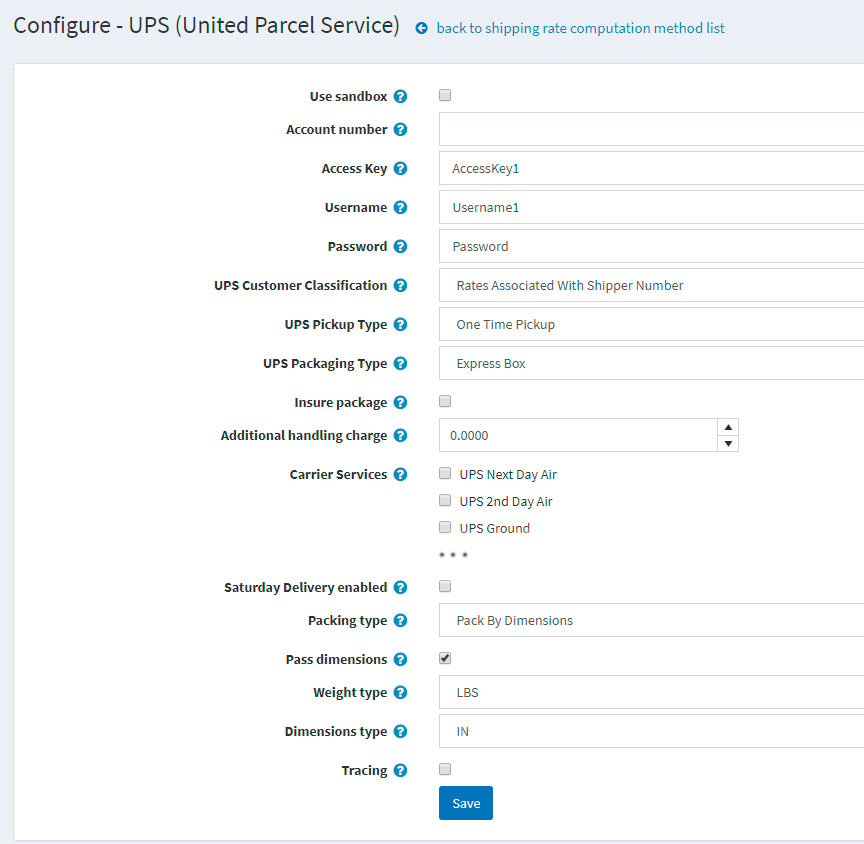
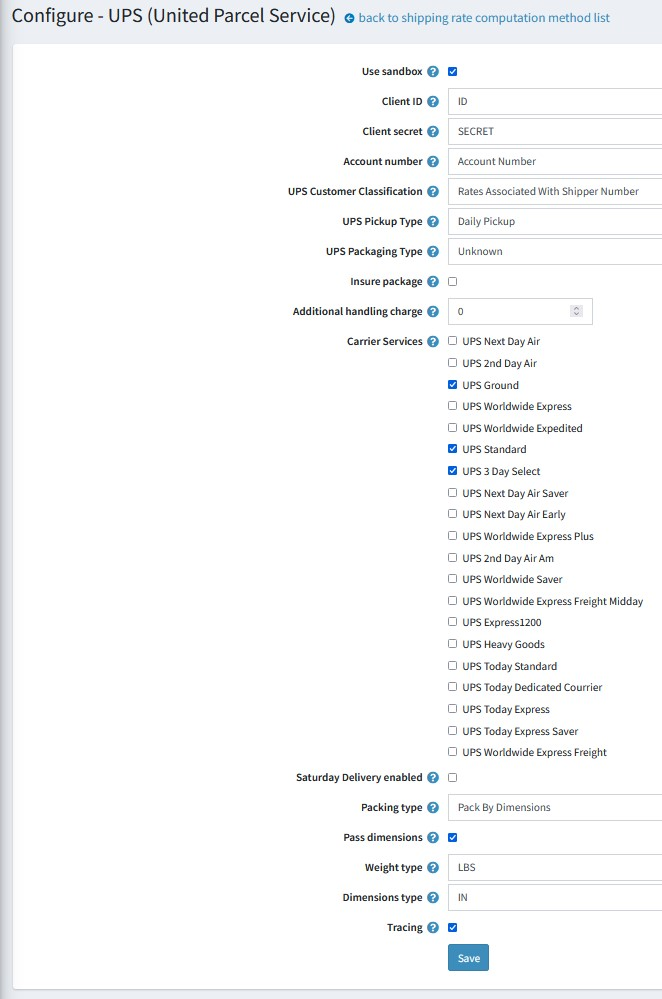
Updated docs for UPS OAuth

diff --git a/en/getting-started/configure-shipping/shipping-providers/ups.md b/en/getting-started/configure-shipping/shipping-providers/ups.md
@@ -2,74 +2,85 @@
 title: UPS
 uid: en/getting-started/configure-shipping/shipping-providers/ups
 author: git.AndreiMaz
-contributors: git.exileDev, git.DmitriyKulagin
+contributors: git.exileDev, git.DmitriyKulagin, git.DanWithArduino
 ---
-
 # UPS
 
 To access your account at UPS, use a username, a password, and an **XML license number**, which you will be provided with after the registration process.
 
 ## Define the UPS Real Time Shipping Calculations
 
-1. Create a UPS account by going to [https://www.ups.com/upsdeveloperkit?loc=en_US](https://www.ups.com/upsdeveloperkit?loc=en_US) to receive the following:
-    * Username ID
-    * Password
-    * XML access license number
+1. Create a UPS user account via [UPS.com](UPS.com "UPS.com"), then go to [developer.ups.com](developer.ups.com), and create an app to receive the following:
 
-1. In the nopCommerce admin area, go to **Configuration → Shipping → Shipping providers**.
- ![Shipping rate methods](_static/ups/shipping-rate-methods.jpg)
-1. Enable this method as follows:
-    * In the UPS (United Postal Service) row, click the **Edit** button.
-    * In the Is **active** column, select the check mark.
-    * Click **Update**. The *false* option will becomes *true*.
+   * Client ID
+   * Client Secret
+     *note, this is to use UPS OAuth, which is required for all new accounts after June 2023, and all accounts after June 2024*
 
-1. Click **Configure** beside the UPS (United Parcel Service) option in the list.
-    The *Configure – UPS (United Parcel Service)* window will be displayed as follows: ![Configure page](_static/ups/ups-configure.jpg)
+     ![Shipping rate methods](_static/ups/ups-apps-configuration.jpg)
+2. Add UPS Products to enable shipment tracking, rate calculations, etc. Recommended products are:
 
-1. Enter the following information obtained from the UPS provider:
-    * Select the **Use sandbox** checkbox to use the testing environment.
-    * Enter the **Account number** of the UPS provider.
-    * Enter the **Access Key** obtained from the provider.
-    * Enter your **Username** obtained from the provider.
-    * Enter the **Password** obtained from the provider
-    * Select your required **UPS Customer Classification** as follows:
-        * Rates Associated With Shipper Number
-        * Daily Rates
-        * Retail Rates
-        * Regional Rates
-        * General List Rates
-        * Standard List Rates
-    * Select the required **UPS Pickup Type** as follows:
-        * Daily Pickup
-        * Customer Counter
-        * One Time Pickup
-        * On Call Air
-        * Letter Center
-        * Air Service Center
-    * Select the required **UPS Packaging Type** as follows:
-        * Unknown
-        * Letter
-        * Customer Supplied Package
-        * Tube
-        * P A K
-        * Express Box
-        * 10 kg Box
-        * 25 kg Box
-        * Pallet
-        * Small Express Box
-        * Medium Express Box
-        * Large Express Box
-    * Select the **Insure package** checkbox, to indicate the package will be insured.
-    * Enter **Additional handling charge**. It is an additional fee to charge your customers.
-    * Select the **Carrier Services** you want to offer to your customers.
-    * Select to get rates for **Saturday Delivery enabled**.
-    * Select the **Packing type**, as follows:
-        * Pack by dimensions
-        * Pack by one item per package
-        * Pack by volume
-    * Tick the **Pass dimensions** checkbox to pass package dimensions when requesting for rates.
-    * Select the **Weight type** – pounds or kilograms.
-    * Select the **Dimensions type** – inches or centimeters.
-    * Tick the **Tracing** checkbox to record system tracing in the system log. The entire request and response XML will be logged (including AccessKey/Username, Password). Do not leave this enabled in a production environment.
+   * Rating
+   * Address Validation
+   * Landed Cost Quoting
+   * Tracking
+   * Shipping
+   * Time In Transit
+3. In the nopCommerce admin area, go to **Configuration → Settings → Shipping Settings**. Configure the shipping point location. The default option is to configure a single **Shipping Origin**, which is configured lower on the page. However you may also choose  **Use Warehouse Location**, if you wish to use the settings configured in **Configuration → Shipping → Warehouse**. The **Use Warehouse Location** checkbox is revealed by choosing **Advanced** from the page configuration selector under the **Shipping settings** header.
 
-    Click **Save**.
+   ![Shipping rate methods](_static/ups/shipping-settings-advanced.jpg)
+4. In the nopCommerce admin area, go to **Configuration → Shipping → Shipping providers**.
+   ![Shipping rate methods](_static/ups/shipping-rate-methods.jpg)
+5. Enable this method as follows:
+
+   * In the UPS (United Postal Service) row, click the **Edit** button.
+   * In the Is **active** column, select the check mark.
+   * Click **Update**. The *false* option will becomes *true*.
+6. Click **Configure** beside the UPS (United Parcel Service) option in the list.
+   The *Configure – UPS (United Parcel Service)* window will be displayed as follows: ![Configure page](_static/ups/ups-configure.jpg)
+7. Enter the following information obtained from the UPS provider, and choose the options that are relevant to your store:
+
+   * Select the **Use sandbox** checkbox to use the testing environment.
+   * Enter  the **Client ID** of the UPS provider.
+   * Enter  the **Client Secret** obtained from the provider.
+   * Enter  your **UPS Account Number** obtained from the provider.
+   * Select your required **UPS Customer Classification** as follows:
+     * Rates Associated With Shipper Number
+     * Daily Rates
+     * Retail Rates
+     * Regional Rates
+     * General List Rates
+     * Standard List Rates
+   * Select the required **UPS Pickup Type** as follows:
+     * Daily Pickup
+     * Customer Counter
+     * One Time Pickup
+     * On Call Air
+     * Letter Center
+     * Air Service Center
+   * Select the required **UPS Packaging Type** as follows:
+     * Unknown
+     * Letter
+     * Customer Supplied Package
+     * Tube
+     * P A K
+     * Express Box
+     * 10 kg Box
+     * 25 kg Box
+     * Pallet
+     * Small Express Box
+     * Medium Express Box
+     * Large Express Box
+   * Select the **Insure package** checkbox, to indicate the package will be insured.
+   * Enter **Additional handling charge**. It is an additional fee to charge your customers.
+   * Select the **Carrier Services** you want to offer to your customers.
+   * Select to get rates for **Saturday Delivery enabled**.
+   * Select the **Packing type**, as follows:
+     * Pack by dimensions
+     * Pack by one item per package
+     * Pack by volume
+   * Tick the **Pass dimensions** checkbox to pass package dimensions when requesting for rates.
+   * Select the **Weight type** – pounds or kilograms.
+   * Select the **Dimensions type** – inches or centimeters.
+   * Tick the **Tracing** checkbox to record system tracing in the system log. The entire request and response XML will be logged (including AccessKey/Username, Password). Do not leave this enabled in a production environment.
+
+   Click **Save**.
